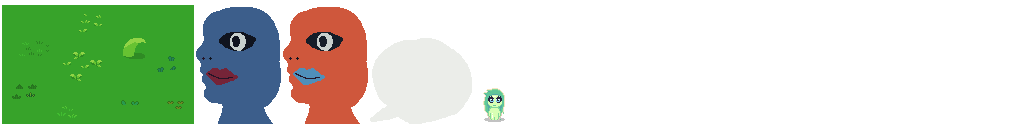
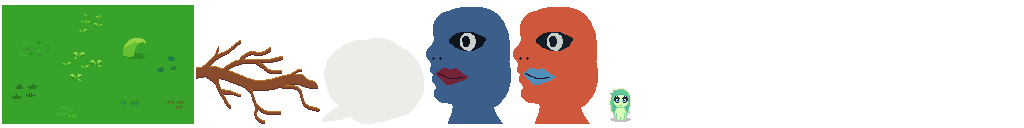
added roots

Changed region(s): [[0.4062, 0.0312, 0.625, 0.9688], [0.1875, 0.0312, 0.375, 0.9688]]

diff --git a/source code/core/src/no/sandramoen/ggj2023oslo/actors/Root.java b/source code/core/src/no/sandramoen/ggj2023oslo/actors/Root.java
@@ -7,20 +7,25 @@ import com.badlogic.gdx.math.Vector2;
 import com.badlogic.gdx.scenes.scene2d.Stage;
 import com.badlogic.gdx.scenes.scene2d.actions.Actions;
 import com.badlogic.gdx.utils.Align;
+import com.badlogic.gdx.utils.Array;
 
 import no.sandramoen.ggj2023oslo.actors.utils.BaseActor;
+import no.sandramoen.ggj2023oslo.utils.GameUtils;
 
 public class Root extends BaseActor {
     private int growthDirection = 1;
     private Vector2 size;
+    private boolean isGrowingLeft;
+    private Array<Root> roots;
 
     public Root(float x, float y, Stage stage, boolean isGrowingLeft) {
         super(x, y, stage);
-        loadImage("root");
-        setSize(10, 2);
-        centerAtPosition(x, y);
-        setOrigin(Align.left);
-        setColor(Color.BROWN);
+        this.isGrowingLeft = isGrowingLeft;
+        loadImage("roots");
+        setSize(5, 1);/*
+        centerAtPosition(x, y);*/
+        setOrigin(Align.left);/*
+        setColor(Color.BROWN);*/
 
         if (!isGrowingLeft) {
             rotateBy(180);
@@ -28,20 +33,53 @@ public class Root extends BaseActor {
         }
 
         size = new Vector2(getWidth(), getHeight());
+        // setDebug(true);
+
+        roots = new Array<>();
+        roots.add(this);
     }
 
     public void grow() {
-        float growX = .2f;
+        addAction(Actions.scaleBy(1, 1, 2, Interpolation.smoother));
+        // Root root = new Root(getX(), getY(), getStage(), isGrowingLeft);
+        /*float growX = .2f;
         float growY = .1f;
         float duration = 2f;
-
-        addAction(Actions.scaleBy(growX, growY, duration, Interpolation.smoother));
         size.x *= (1 + growX);
         size.y *= (1 + growY);
 
-        for (int i = 0; i < MathUtils.random(1, 3); i++) {
+        for (Root root : roots)
+            root.addAction(Actions.scaleBy(growX, growY, duration, Interpolation.smoother));
 
+        growChild(this, size.x, size.y);*/
+
+        // System.out.println(size.x + ", " + size.y);
+    }
+
+    public void growChild(Root parent, float width, float height) {
+        int direction = -1;
+        /*if (parent.isGrowingLeft) direction *= -1;*/
+
+        Root root = null;
+        for (int i = 0; i < MathUtils.random(0, 3); i++) {
+            root = new Root(
+                    MathUtils.random(parent.getX(), parent.getX() + getWidth() * direction),
+                    MathUtils.random(parent.getY(), parent.getY() + getHeight() * direction),
+                    getStage(),
+                    isGrowingLeft
+            );
+            root.setSize(root.getWidth() / 2, root.getHeight() / 2);
+            root.addAction(Actions.parallel(
+                    Actions.sequence(
+                            Actions.scaleTo(0, 0, 0),
+                            Actions.scaleTo(1, 1, 1)
+                    ),
+                    Actions.rotateBy(MathUtils.random(-45, 45), 1)
+            ));
+            root.setColor(GameUtils.randomLightColor());
+            roots.add(root);
         }
-        System.out.println(size.x + ", " + size.y);
+        if (root != null)
+            growChild(root, root.getWidth(), root.getHeight());
     }
 }

diff --git a/source code/core/src/no/sandramoen/ggj2023oslo/screens/gameplay/LevelScreen.java b/source code/core/src/no/sandramoen/ggj2023oslo/screens/gameplay/LevelScreen.java
@@ -115,15 +115,15 @@ public class LevelScreen extends BaseScreen {
             Gdx.app.exit();
         else if (keycode == Keys.R)
             BaseGame.setActiveScreen(new LevelScreen(currentMap));
-        else if (keycode == Keys.T)
-            BaseGame.setActiveScreen(new LevelSelectScreen());
-        else if (keycode == Keys.NUMPAD_0) {
+        /*else if (keycode == Keys.T)
+            BaseGame.setActiveScreen(new LevelSelectScreen());*/
+        /*else if (keycode == Keys.NUMPAD_0) {
             OrthographicCamera camera = (OrthographicCamera) mainStage.getCamera();
             camera.zoom += .1f;
-        } else if (keycode == Keys.NUM_3) {
+        }*//* else if (keycode == Keys.NUM_3) {
             rootA.grow();
             rootB.grow();
-        }
+        }*/
         return super.keyDown(keycode);
     }
 

diff --git a/source code/core/src/no/sandramoen/ggj2023oslo/utils/BaseGame.java b/source code/core/src/no/sandramoen/ggj2023oslo/utils/BaseGame.java
@@ -96,8 +96,8 @@ public abstract class BaseGame extends Game implements AssetErrorListener {
     private void loadGameState() {
         GameUtils.loadGameState();
         if (!loadPersonalParameters) {
-            soundVolume = .75f;
-            musicVolume = .5f;
+            soundVolume = 1f;
+            musicVolume = 1f;
             voiceVolume = 1f;
         }
     }
